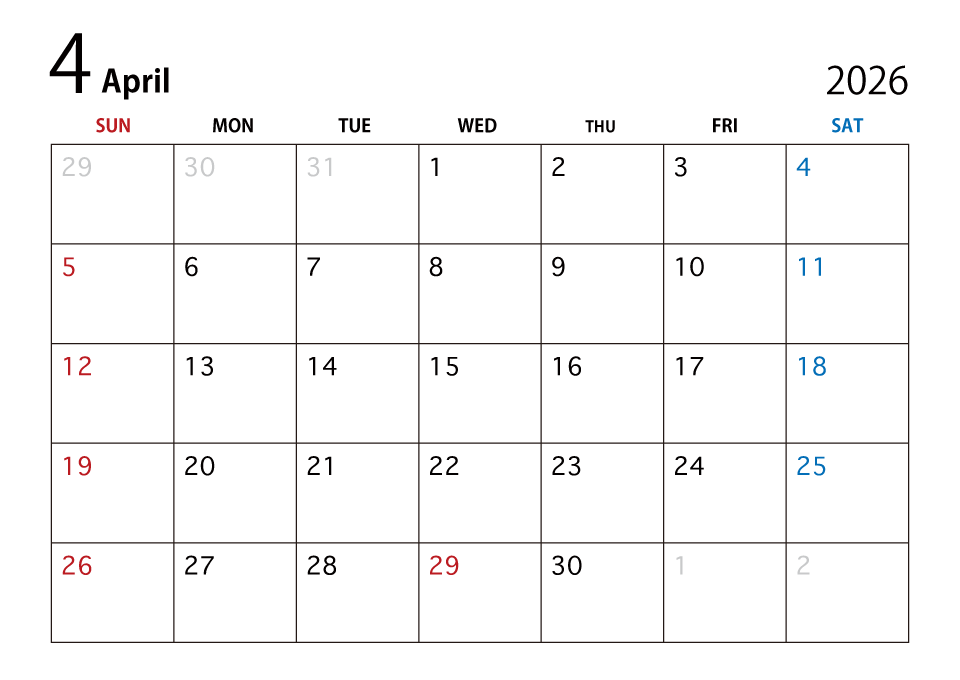
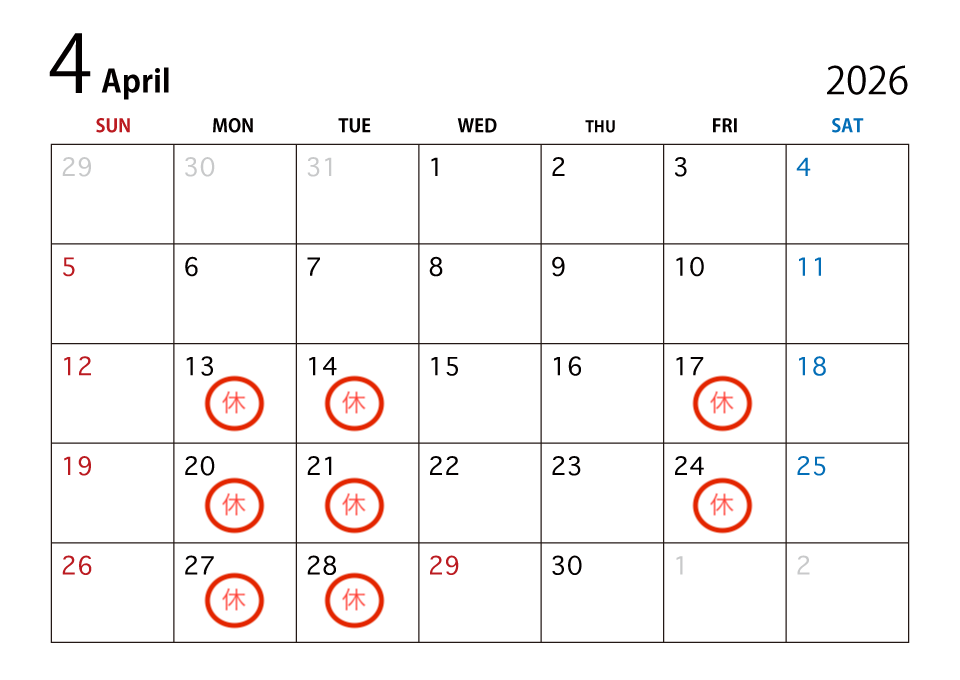
Update pages

diff --git a/index.html b/index.html
@@ -54,17 +54,24 @@
   </nav>
 </header>
 <div class="slideshow">
+  <div class="slide" style="background-image: url('images/news/open.JPG');"></div>
   <div class="slide" style="background-image: url('images/slide.JPG');"></div>
   <div class="slide" style="background-image: url('images/slide2.jpg');"></div>
-  <div class="slide" style="background-image: url('images/slide3.jpeg');"></div>
 </div> 
 <section id="information">
   <h2 class="heading-img">
     <img src="images/heading/information.png" alt="お知らせ">
   </h2>
   <ul class="info-list">
-    <li><a href="news.html#news1"><span class="date">coming soon</span>開業日決まり次第お知らせいたします。</a></li>
-  </ul>  
+    <li>2026/4/4　　　<a href="news.html#news1"><span class="date">4/12</span>に開業いたします。</a>皆さまのご来店を心よりお待ちしております。</li>
+  </ul>   
+  <ul class="info-list">
+    <li>2026/4/4　　　<span class="date">4/13・14</span>はお休みをいただき、<span class="date">4/15</span>より通常営業となります。</li>
+  </ul> 
+  <ul class="info-list">
+    <li>2026/4/4　　　<a href="index.html#calendar">4月のカレンダー</a>更新しました。</li>
+  </ul> 
+  
 </section>
 
 <section id="about">

diff --git a/news.html b/news.html
@@ -16,12 +16,21 @@
 
   <!-- ▼ news1 -->
   <div id="news1" class="news-item">
-    <h2>2025/1/31</h2>
-    <p class="date">coming soon</p>
-    <img src="images/valentine.jpg" class="news-img" alt="">
-    <p>開業日決まり次第お知らせいたします。</p>
+    <h2>Openのお知らせ</h2>
+    <!-- ▼ お菓子の数に関する強調文 -->
+    <p class="emphasis2" style="color: var(--wine); font-weight: bold;">
+      お菓子の数には限りがございます。<br>
+      なくなり次第終了となりますので、ご了承ください。
+    </p>
+    <!-- ▼ 画像より上に強調して表示 -->
+    <p class="emphasis2" style="color: var(--wine); font-weight: bold;">
+      4/13・14はお休みをいただきますので、ご注意ください。
+    </p>
+    <!-- ▼ OPENチラシ画像 -->
+    <img src="images/news/open.JPG" class="news-img" alt="オープンのお知らせ">
     <a href="index.html">← トップへ戻る</a>
   </div>
+
 
   <!-- ▼ news2 -->
   <div id="news2" class="news-item">

diff --git a/style.css b/style.css
@@ -135,8 +135,9 @@ nav a:hover {
   left: 0;
   width: 100%;
   height: 100%;
-  background-size: cover;
+  background-size: contain;
   background-position: center;
+  background-repeat: no-repeat;
   opacity: 0;
   animation: fade 12s infinite;
 }
